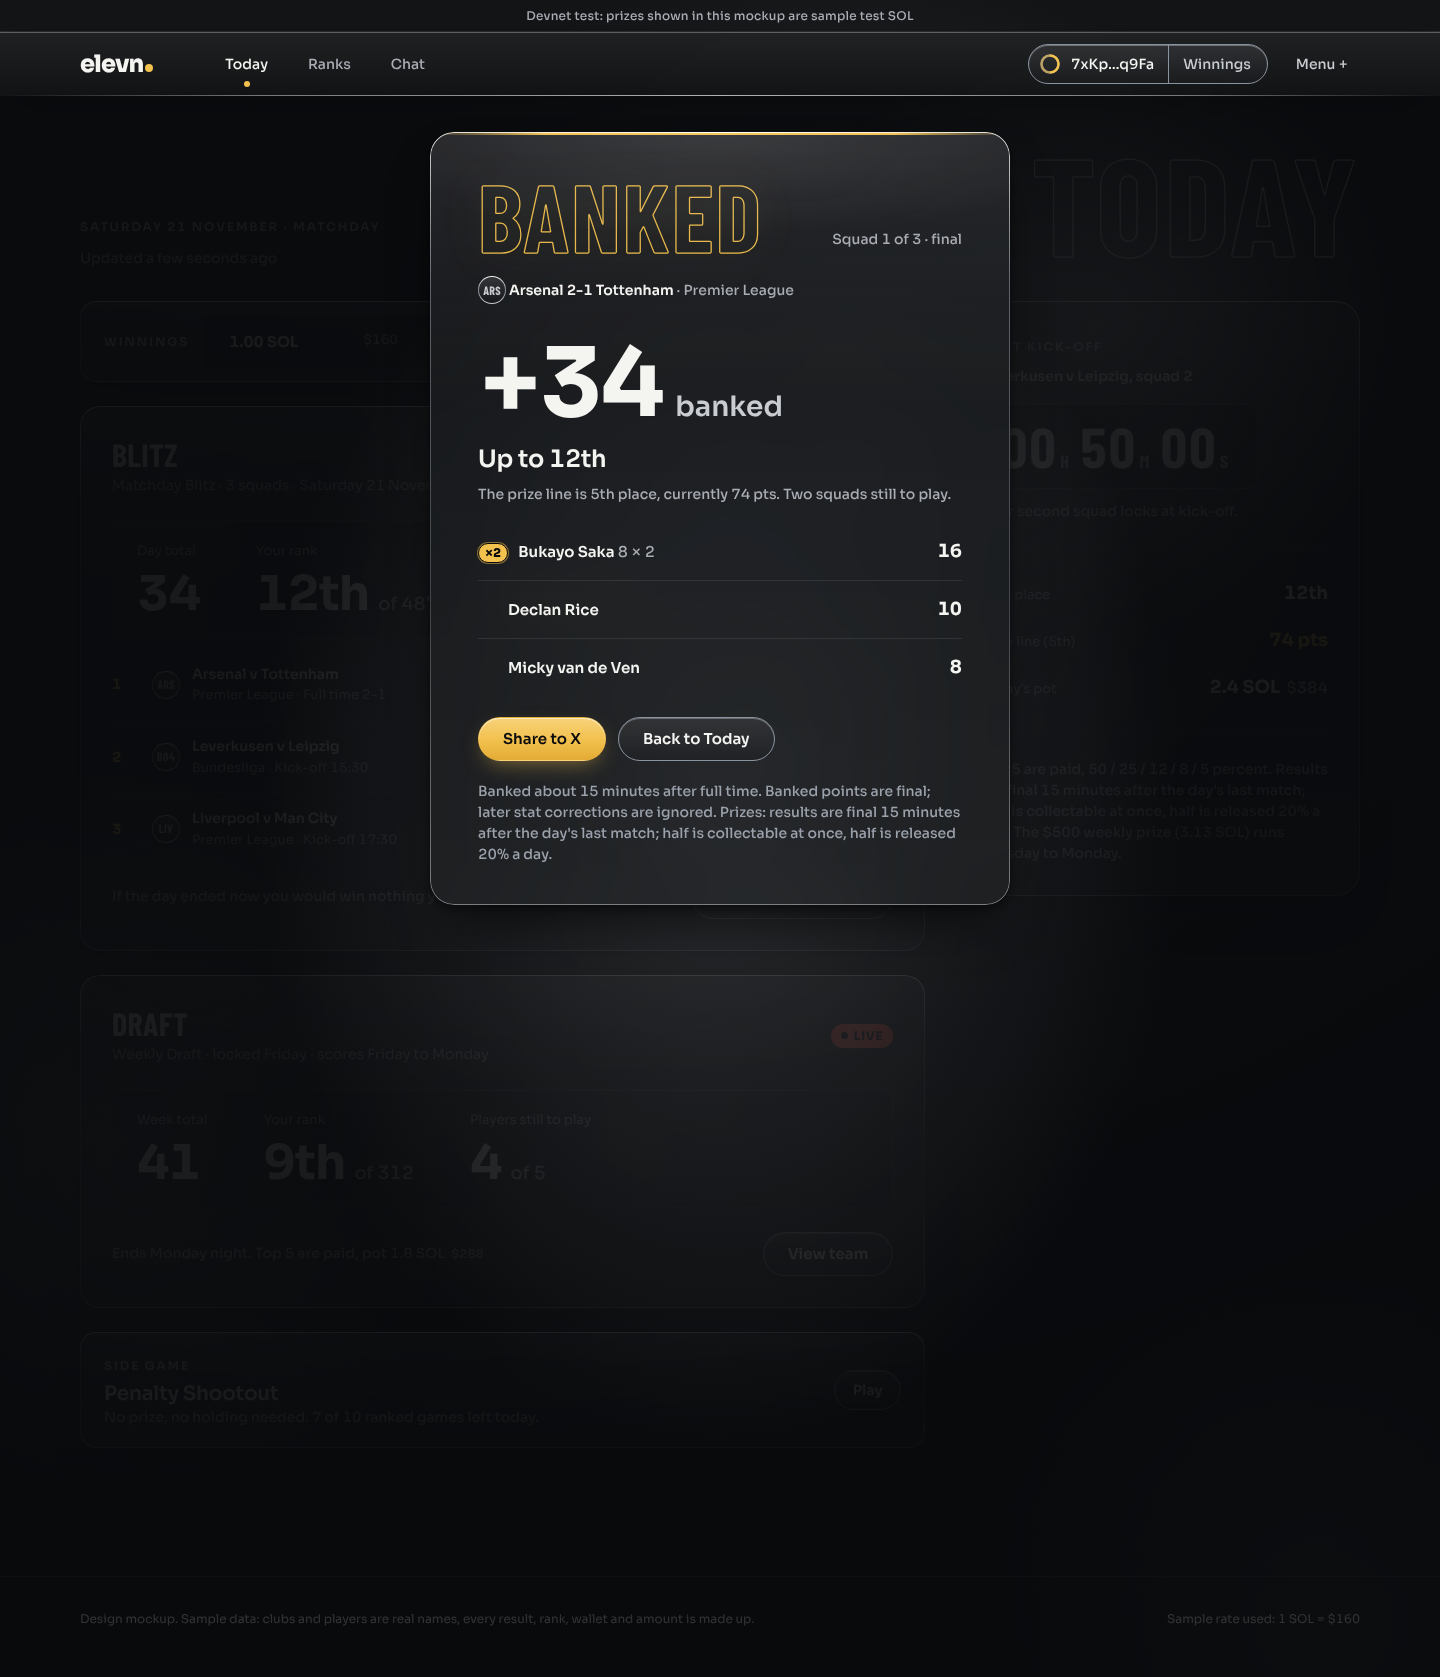
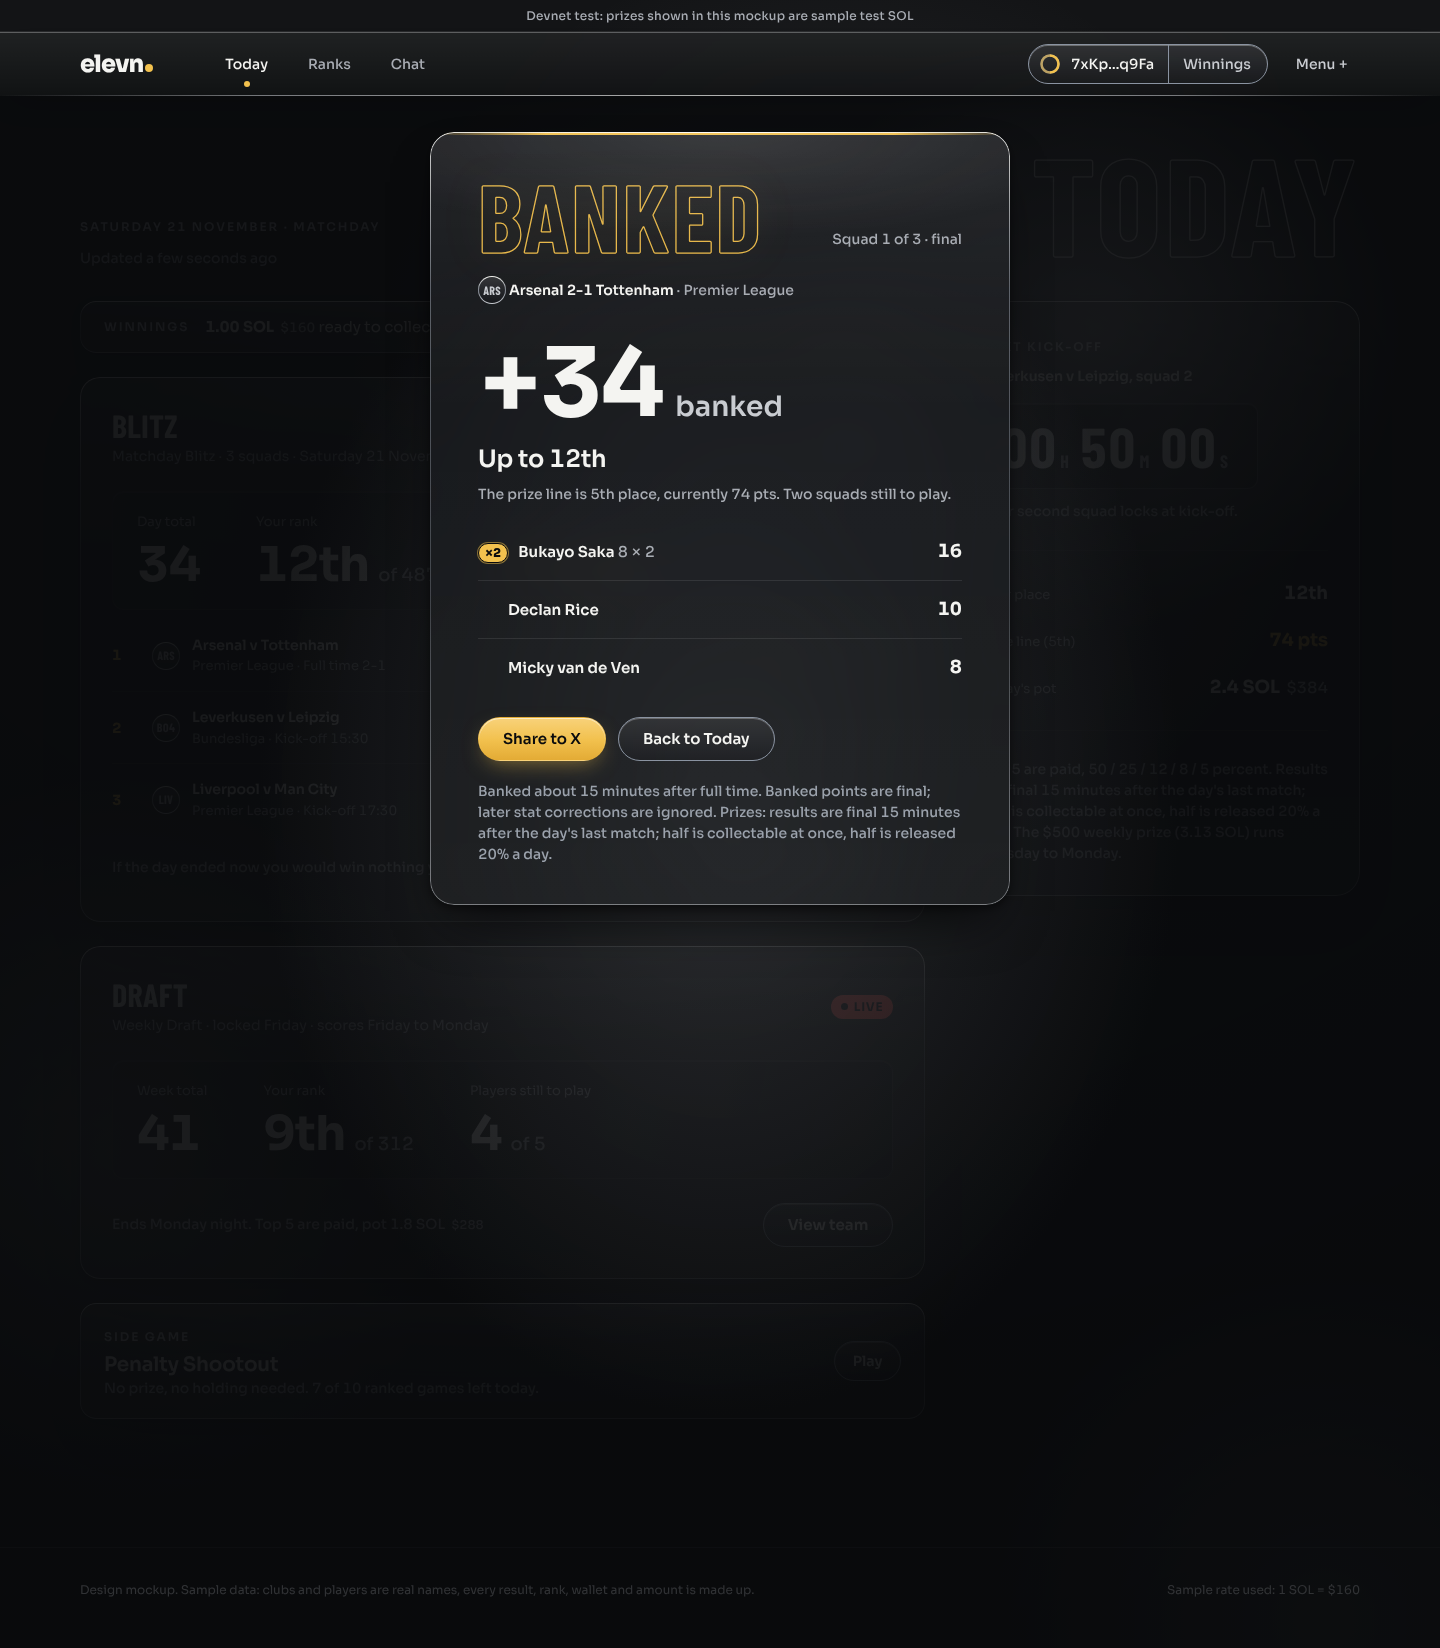
Mockups: fix Today strip, stronger rays, compare images, index links, chat placeholder
Claude-Session: https://claude.ai/code/session_012GbKymxq8Mwy7J7Kp4CrmR

diff --git a/docs/design/mockups/chat.html b/docs/design/mockups/chat.html
@@ -14,7 +14,7 @@
 <div class="ph"><div><span class="eyebrow">Chat · holders of $ELEVN can post</span><p class="lead">Talk fixtures, squads and lineups. Anyone can read; a connected wallet holding the tokens can post.</p></div><div class="w"><h1 class="word">Chat</h1></div></div>
 <div class="g"><div class="col" style="--n:8"><div class="glass msgs" style="padding:0"><div class="msg"><span class="wl">mk4…8vRe</span><span>Arsenal at home with Saka captain feels too easy, who is fading him?</span><span class="tm">13:02</span></div><div class="msg"><span class="wl">Hq7…2nTz</span><span>Leipzig away from Leverkusen: Diomande is my pick, cheap and always involved.</span><span class="tm">13:04</span></div><div class="msg"><span class="wl">9Bd…xP3c</span><span>Lineups drop at 14:30, wait for them before locking squad 2.</span><span class="tm">13:05</span></div><div class="msg"><span class="wl">3Ls…aW0m</span><span>Prize line was 74 last Saturday. Aim for that.</span><span class="tm">13:09</span></div><div class="msg"><span class="wl">Fy2…kC6u</span><span>Anyone from the Draft pool still deciding between Kane and Mbappé as captain?</span><span class="tm">13:11</span></div><div class="msg"><span class="wl">bK2…vE8d</span><span>Mbappé, he plays Villarreal at home.</span><span class="tm">13:12</span></div><div class="msg"><span class="wl">Tr4…9mWq</span><span>Shootout ranked games reset at midnight UK time.</span><span class="tm">13:15</span></div>
 <div class="composer" data-in><input class="field" type="text" placeholder="Write a message" aria-label="Message"><a class="btn btn-gold" href="#">Send</a></div>
-<div class="composer" data-guest><input class="field" type="text" placeholder="Connect wallet to post" aria-label="Message, read only" disabled><a class="btn btn-line" href="connect.html">Connect wallet to post</a></div>
+<div class="composer" data-guest><input class="field" type="text" placeholder="Read only as a guest" aria-label="Message, read only" disabled><a class="btn btn-line" href="connect.html">Connect wallet to post</a></div>
 </div></div>
 <div class="col" style="--n:4"><aside class="glass"><span class="eyebrow">House rules</span><ul class="checks" style="padding:0;margin-top:12px"><li><span class="tick">✓</span><span>Be civil</span></li><li><span class="tick">✓</span><span>No links to other sites</span></li><li><span class="tick">✓</span><span>No price talk or financial advice</span></li></ul></aside></div></div>
 </main>

diff --git a/docs/design/mockups/mock.css b/docs/design/mockups/mock.css
@@ -537,7 +537,7 @@ body.guest [data-in] { display: none !important; }
 /* winnings strip on Today: one line */
 .strip { display: flex; align-items: center; gap: 16px; padding: 14px 24px; border-radius: 16px; font-size: 15px; }
 .strip .eyebrow { flex: none; }
-.strip .msg { flex: 1; }
+.strip .msg { flex: 1; display: block; padding: 0; border: 0; background: none; font-size: inherit; }
 .strip .msg b { font-weight: 700; }
 .strip .go { flex: none; font-size: 14px; font-weight: 600; color: var(--text); text-decoration: underline; text-decoration-color: var(--edge-control); text-underline-offset: 4px; }
 .strip:hover .go { text-decoration-color: var(--steel); }
@@ -620,7 +620,7 @@ body.guest [data-in] { display: none !important; }
 .rays { position: absolute; left: 0; right: 0; top: 0; height: 560px; z-index: -1; pointer-events: none; overflow: hidden;
   -webkit-mask: linear-gradient(180deg, #000 0, #000 28%, rgba(0,0,0,.5) 62%, transparent 100%); mask: linear-gradient(180deg, #000 0, #000 28%, rgba(0,0,0,.5) 62%, transparent 100%); }
 .rays i { position: absolute; top: -140px; height: 760px; transform-origin: 50% 0; filter: blur(26px);
-  background: linear-gradient(180deg, rgba(232,235,240,.30), rgba(232,235,240,.10) 55%, rgba(232,235,240,0)); }
+  background: linear-gradient(180deg, rgba(236,239,244,.46), rgba(236,239,244,.17) 55%, rgba(232,235,240,0)); }
 .rays i:nth-child(1) { left: 52%; width: 70px; transform: rotate(24deg); opacity: .55; animation: ray 34s ease-in-out infinite alternate; }
 .rays i:nth-child(2) { left: 61%; width: 150px; transform: rotate(18deg); opacity: .5; animation: ray 46s ease-in-out -9s infinite alternate; }
 .rays i:nth-child(3) { left: 72%; width: 60px; transform: rotate(31deg); opacity: .6; animation: ray 38s ease-in-out -20s infinite alternate; }
